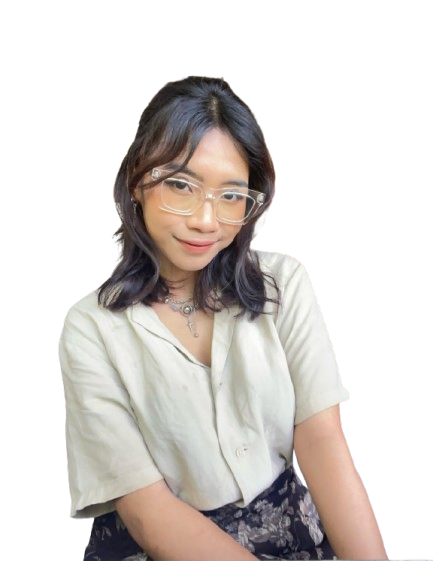
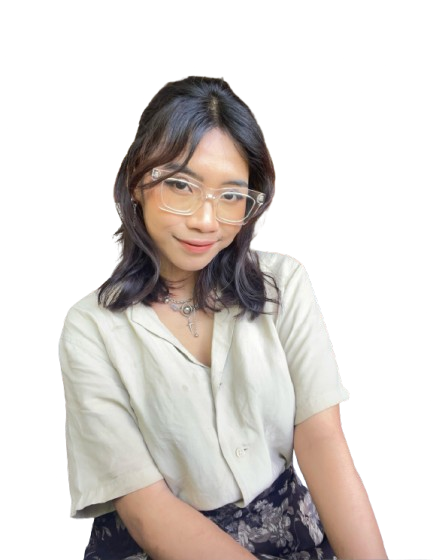
Some modifications have been made to the project, including updates to the README.md file, changes to the profile portrait image, enhancements to the script.js file, and adjustments to the HTML files for contact, index, and projects pages. These changes aim to improve the overall functionality and u

diff --git a/index.html b/index.html
@@ -8,13 +8,13 @@
   <title>
    Nabila Azmi — Interior Designer
   </title>
-  <link href="assets/styles.css" rel="stylesheet"/>
+  <link href="/assets/styles.css" rel="stylesheet"/>
  </head>
  <body>
   <!-- Site header and navigation -->
   <header class="site-header">
    <div class="container nav">
-    <a class="brand" href="index.html">
+    <a class="brand" href="/">
      <span class="brand-mark">
       NA
      </span>
@@ -29,16 +29,16 @@
      ☰
     </button>
     <nav aria-label="Primary navigation" class="nav-links">
-     <a aria-current="page" href="index.html">
+     <a aria-current="page" href="/">
       Home
      </a>
-     <a href="projects/index.html">
+     <a href="/projects/">
       Projects
      </a>
-     <a href="contact/index.html">
+     <a href="/contact/">
       Contact
      </a>
-     <a class="nav-cta" href="contact/index.html">
+     <a class="nav-cta" href="/contact/">
       Start a project
      </a>
     </nav>
@@ -62,23 +62,23 @@
        I create functional, warm, and memorable interiors—from private villas and homes to offices, cafés, restaurants, and commercial spaces.
       </p>
       <div class="actions">
-       <a class="btn btn-primary" href="projects.html">
+       <a class="btn btn-primary" href="/projects/">
         Explore projects
        </a>
-       <a class="btn btn-ghost" href="contact.html">
+       <a class="btn btn-ghost" href="/contact/">
         Contact me
        </a>
       </div>
      </div>
      <div class="hero-collage reveal">
       <div class="hero-card one">
-       <img alt="Villa Seraya exterior" src="assets/images/villa-seraya-01.webp"/>
+       <img alt="Villa Seraya exterior" src="/assets/images/villa-seraya-01.webp"/>
       </div>
       <div class="hero-card two">
-       <img alt="Red Dakoci restaurant" src="assets/images/red-dakoci-bali-01.webp"/>
+       <img alt="Red Dakoci restaurant" src="/assets/images/red-dakoci-bali-01.webp"/>
       </div>
       <div class="hero-card three">
-       <img alt="Villa Buwit exterior" src="assets/images/villa-buwit-01.webp"/>
+       <img alt="Villa Buwit exterior" src="/assets/images/villa-buwit-01.webp"/>
       </div>
       <div class="hero-badge">
        Designing
@@ -129,7 +129,7 @@
    <section class="section">
     <div class="container about-grid">
      <div class="portrait reveal">
-      <img alt="Portrait of Nabila Azmi" src="assets/images/nabila-profile-portrait.webp"/>
+      <img alt="Portrait of Nabila Azmi" src="/assets/images/nabila-profile-portrait.webp"/>
      </div>
      <div class="about-copy reveal">
       <div class="eyebrow">
@@ -200,7 +200,7 @@
      <div class="project-grid">
       <article aria-label="View Villa Buwit" class="project-card reveal" data-open-project="villa-buwit" role="button" tabindex="0">
        <div class="project-media">
-        <img alt="Villa Buwit interior design" loading="lazy" src="assets/images/villa-buwit-01.webp"/>
+        <img alt="Villa Buwit interior design" loading="lazy" src="/assets/images/villa-buwit-01.webp"/>
        </div>
        <div class="project-body">
         <div class="project-meta">
@@ -219,7 +219,7 @@
       </article>
       <article aria-label="View Villa Seraya" class="project-card reveal" data-open-project="villa-seraya" role="button" tabindex="0">
        <div class="project-media">
-        <img alt="Villa Seraya interior design" loading="lazy" src="assets/images/villa-seraya-01.webp"/>
+        <img alt="Villa Seraya interior design" loading="lazy" src="/assets/images/villa-seraya-01.webp"/>
        </div>
        <div class="project-body">
         <div class="project-meta">
@@ -238,7 +238,7 @@
       </article>
       <article aria-label="View SPBE Bali Office" class="project-card reveal" data-open-project="spbe-bali-office" role="button" tabindex="0">
        <div class="project-media">
-        <img alt="SPBE Bali Office interior design" loading="lazy" src="assets/images/spbe-bali-office-01.webp"/>
+        <img alt="SPBE Bali Office interior design" loading="lazy" src="/assets/images/spbe-bali-office-01.webp"/>
        </div>
        <div class="project-body">
         <div class="project-meta">
@@ -257,7 +257,7 @@
       </article>
       <article aria-label="View The Wings Bali" class="project-card reveal" data-open-project="the-wings-bali" role="button" tabindex="0">
        <div class="project-media">
-        <img alt="The Wings Bali interior design" loading="lazy" src="assets/images/the-wings-bali-01.webp"/>
+        <img alt="The Wings Bali interior design" loading="lazy" src="/assets/images/the-wings-bali-01.webp"/>
        </div>
        <div class="project-body">
         <div class="project-meta">
@@ -276,7 +276,7 @@
       </article>
       <article aria-label="View Red Dakoci Bali" class="project-card reveal" data-open-project="red-dakoci-bali" role="button" tabindex="0">
        <div class="project-media">
-        <img alt="Red Dakoci Bali interior design" loading="lazy" src="assets/images/red-dakoci-bali-01.webp"/>
+        <img alt="Red Dakoci Bali interior design" loading="lazy" src="/assets/images/red-dakoci-bali-01.webp"/>
        </div>
        <div class="project-body">
         <div class="project-meta">
@@ -295,7 +295,7 @@
       </article>
       <article aria-label="View LOI Spa Bali" class="project-card reveal" data-open-project="loi-spa-bali" role="button" tabindex="0">
        <div class="project-media">
-        <img alt="LOI Spa Bali interior design" loading="lazy" src="assets/images/loi-spa-bali-01.webp"/>
+        <img alt="LOI Spa Bali interior design" loading="lazy" src="/assets/images/loi-spa-bali-01.webp"/>
        </div>
        <div class="project-body">
         <div class="project-meta">
@@ -314,7 +314,7 @@
       </article>
      </div>
      <div class="actions" style="justify-content:center;margin-top:38px">
-      <a class="btn btn-primary" href="projects/index.html">
+      <a class="btn btn-primary" href="/projects/">
        See all projects
       </a>
      </div>
@@ -408,7 +408,7 @@
       </p>
      </div>
      <div class="actions">
-      <a class="btn btn-primary" href="contact/index.html">
+      <a class="btn btn-primary" href="/contact/">
        Start a conversation
       </a>
      </div>
@@ -420,7 +420,7 @@
    <div class="container">
     <div class="footer-grid">
      <div>
-      <a class="brand" href="index.html">
+      <a class="brand" href="/">
        <span class="brand-mark">
         NA
        </span>
@@ -451,13 +451,13 @@
      ©
      <span data-year="">
      </span>
-    	Made with ❤ by <a href="https://www.instagram.com/larxion0/" rel="noreferrer" target="_blank">LRXN</a>.
+     Made with ❤ by LRXN.
     </div>
    </div>
   </footer>
-  <script src="assets/projects.js">
+  <script src="/assets/projects.js">
   </script>
-  <script src="assets/script.js">
+  <script src="/assets/script.js">
   </script>
  </body>
 </html>

diff --git a/contact/index.html b/contact/index.html
@@ -14,7 +14,7 @@
   <!-- Site header and navigation -->
   <header class="site-header">
    <div class="container nav">
-    <a class="brand" href="/index.html">
+    <a class="brand" href="/">
      <span class="brand-mark">
       NA
      </span>
@@ -29,16 +29,16 @@
      ☰
     </button>
     <nav aria-label="Primary navigation" class="nav-links">
-     <a href="/index.html">
+     <a href="/">
       Home
      </a>
-     <a href="/projects/index.html">
+     <a href="/projects/">
       Projects
      </a>
-     <a aria-current="page" href="/contact/index.html">
+     <a aria-current="page" href="/contact/">
       Contact
      </a>
-     <a class="nav-cta" href="/contact/index.html">
+     <a class="nav-cta" href="/contact/">
       Start a project
      </a>
     </nav>
@@ -141,7 +141,7 @@
    <div class="container">
     <div class="footer-grid">
      <div>
-      <a class="brand" href="../index.html">
+      <a class="brand" href="/">
        <span class="brand-mark">
         NA
        </span>
@@ -172,13 +172,13 @@
      ©
      <span data-year="">
      </span>
-        Made with ❤ by <a href="https://www.instagram.com/larxion0/" rel="noreferrer" target="_blank">LRXN</a>.
+     Made with ❤ by LRXN.
     </div>
    </div>
   </footer>
-  <script src="../assets/projects.js">
+  <script src="/assets/projects.js">
   </script>
-  <script src="../assets/script.js">
+  <script src="/assets/script.js">
   </script>
  </body>
 </html>

diff --git a/projects/index.html b/projects/index.html
@@ -8,13 +8,13 @@
   <title>
    Projects — Nabila Azmi
   </title>
-  <link href="../assets/styles.css" rel="stylesheet"/>
+  <link href="/assets/styles.css" rel="stylesheet"/>
  </head>
  <body>
   <!-- Site header and navigation -->
   <header class="site-header">
    <div class="container nav">
-    <a class="brand" href="../index.html">
+    <a class="brand" href="/">
      <span class="brand-mark">
       NA
      </span>
@@ -29,16 +29,16 @@
      ☰
     </button>
     <nav aria-label="Primary navigation" class="nav-links">
-     <a href="../index.html">
+     <a href="/">
       Home
      </a>
-     <a aria-current="page" href="../projects/index.html">
+     <a aria-current="page" href="/projects/">
       Projects
      </a>
-     <a href="../contact/index.html">
+     <a href="/contact/">
       Contact
      </a>
-     <a class="nav-cta" href="../contact/index.html">
+     <a class="nav-cta" href="/contact/">
       Start a project
      </a>
     </nav>
@@ -112,7 +112,7 @@
    <div class="container">
     <div class="footer-grid">
      <div>
-      <a class="brand" href="../index.html">
+      <a class="brand" href="/">
        <span class="brand-mark">
         NA
        </span>
@@ -143,7 +143,7 @@
      ©
      <span data-year="">
      </span>
-        Made with ❤ by <a href="https://www.instagram.com/larxion0/" rel="noreferrer" target="_blank">LRXN</a>.
+     Made with ❤ by LRXN.
     </div>
    </div>
   </footer>

diff --git a/assets/script.js b/assets/script.js
@@ -143,7 +143,7 @@ function renderCategoryFilters() {
   if (!filterContainer) return;
 
   // Every unique category in projects.js automatically becomes a filter button.
-  // This means you do not need to edit projects.html when adding a new category.
+  // This means you do not need to edit the Projects page when adding a new category.
   const categories = [
     "All",
     ...new Set(projects.map((project) => project.category)),
@@ -219,7 +219,7 @@ function unlockPageScroll() {
 function openProject(slug) {
   // On pages without the dialog, send visitors to the projects page.
   if (!projectDialog) {
-    window.location.href = `projects.html#${slug}`;
+    window.location.href = `/projects/#${encodeURIComponent(slug)}`;
     return;
   }
 

diff --git a/README.md b/README.md
@@ -68,3 +68,11 @@ Then open `http://localhost:8000` in a browser.
 ## Adding more projects
 
 See `ADDING-PROJECTS.md` for the copy-ready template and step-by-step instructions.
+
+## Mouse-wheel image browsing
+
+While a project dialog is open, move the pointer over the image gallery and use the mouse wheel or a vertical touchpad gesture to move through its images. The page behind the dialog is locked so it cannot scroll accidentally. Hover over the description panel when you need to scroll a long project description.
+
+## Read-only website text
+
+Visible website copy is configured as read-only: it cannot be selected and does not show a text caret. Search, contact inputs, selects, and textareas remain editable.
